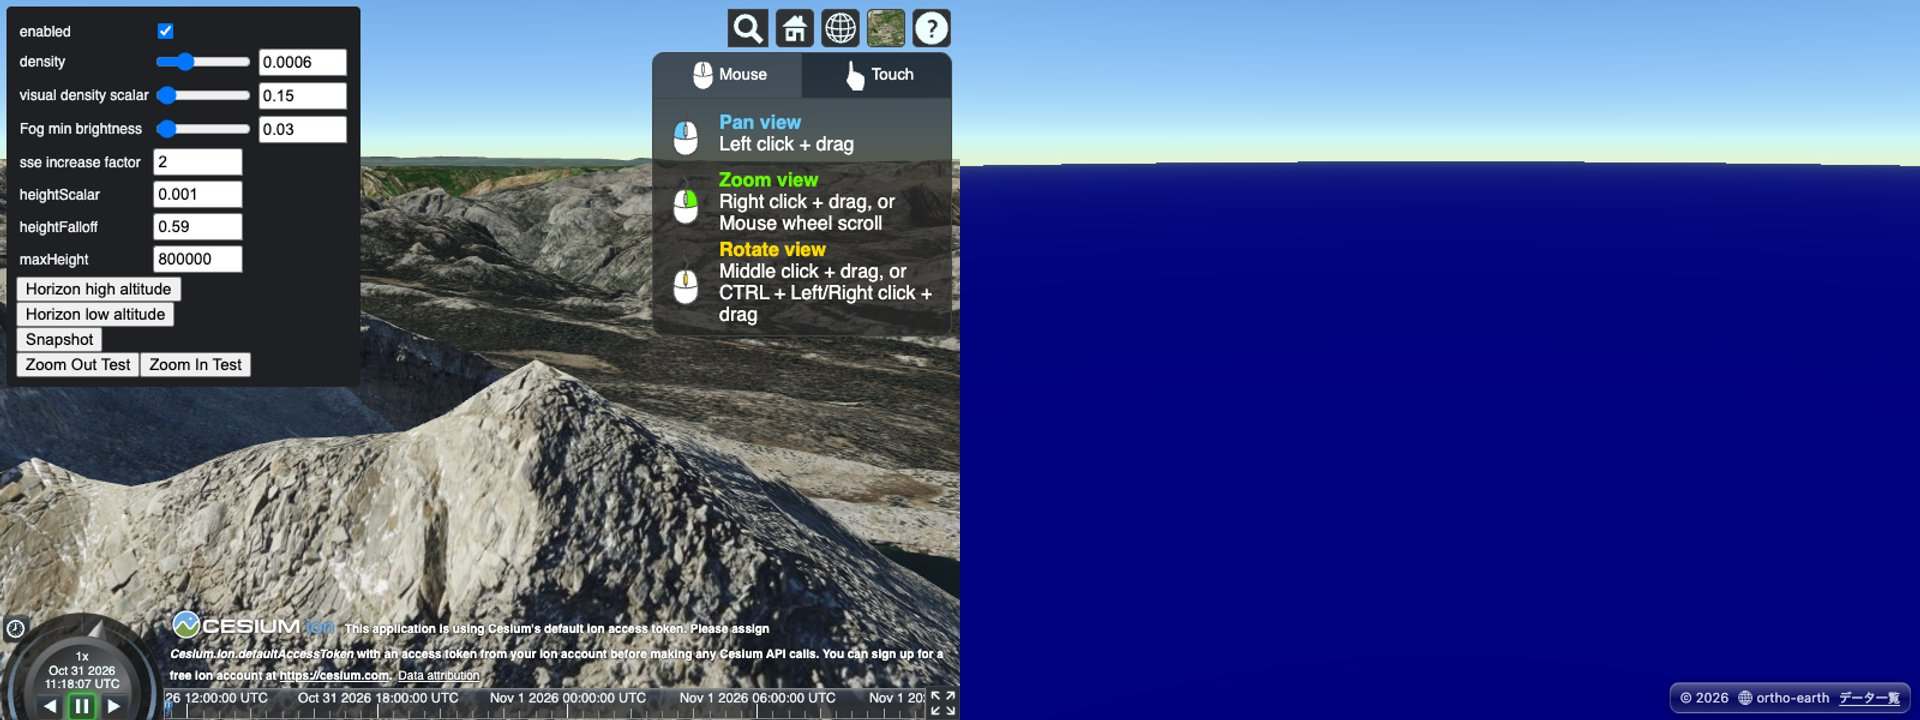
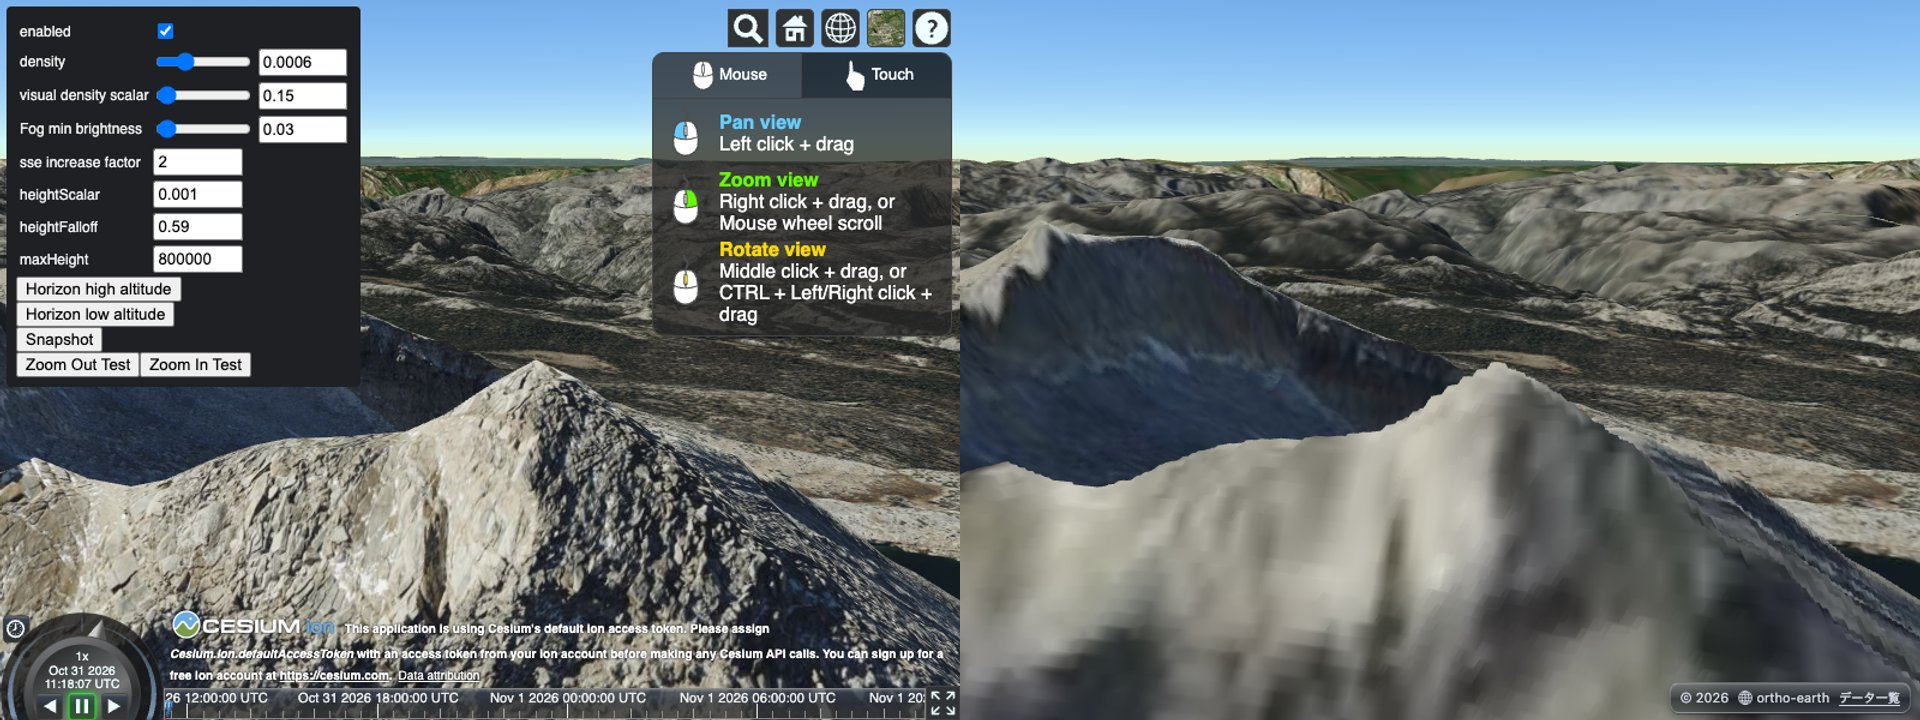
gate-results v260: fog re-shot (camera race in the first shot)

diff --git a/v260/report.md b/v260/report.md
@@ -9,7 +9,7 @@
 | 3d-tiles-point-cloud | 2 | **2** | 92.0 / 91.3 / 38 | 91.7 / 91.4 / 38 |
 | 3d-tiles-point-cloud-shading | 3 | **2** | 91.9 / 94.7 / 12 | 84.1 / 96.1 / 131 |
 | arcticdem | 3 | **3** | 91.7 / 82.3 / 19 | 91.7 / 82.3 / 19 |
-| fog | 2 | **2** | 95.1 / 48.8 / 7 | 14.1 / 16.5 / 1297 |
+| fog | 2 | **2** | 95.1 / 48.8 / 7 | 95.0 / 49.4 / 7 |
 | geometry-height-reference | 2 | **3** | 99.4 / 37.0 / 2 | 99.3 / 91.7 / 4 |
 | gpx | 3 | **3** | 97.1 / 94.1 / 11 | 97.1 / 94.1 / 11 |
 
@@ -20,6 +20,8 @@
 | 3d-tiles-point-cloud | 2 | 2 | 92.0 / 91.3 / 38 | 91.7 / 91.4 / 38 |
 | 3d-tiles-point-cloud-shading | 3 | 2 | 91.9 / 94.7 / 12 | 84.1 / 96.1 / 131 |
 | arcticdem | 3 | 3 | 91.7 / 82.3 / 19 | 91.7 / 82.3 / 19 |
-| fog | 2 | 2 | 95.1 / 48.8 / 7 | 14.1 / 16.5 / 1297 |
+| fog | 2 | 2 | 95.1 / 48.8 / 7 | 95.0 / 49.4 / 7 |
 | geometry-height-reference | 2 | 3 | 99.4 / 37.0 / 2 | 99.3 / 91.7 / 4 |
 | gpx | 3 | 3 | 97.1 / 94.1 / 11 | 97.1 / 94.1 / 11 |
+
+- fog: the first shot had the example's camera race (distance 13.8 km instead of 3.0 km); re-shot alone (v260b) and copied in.
